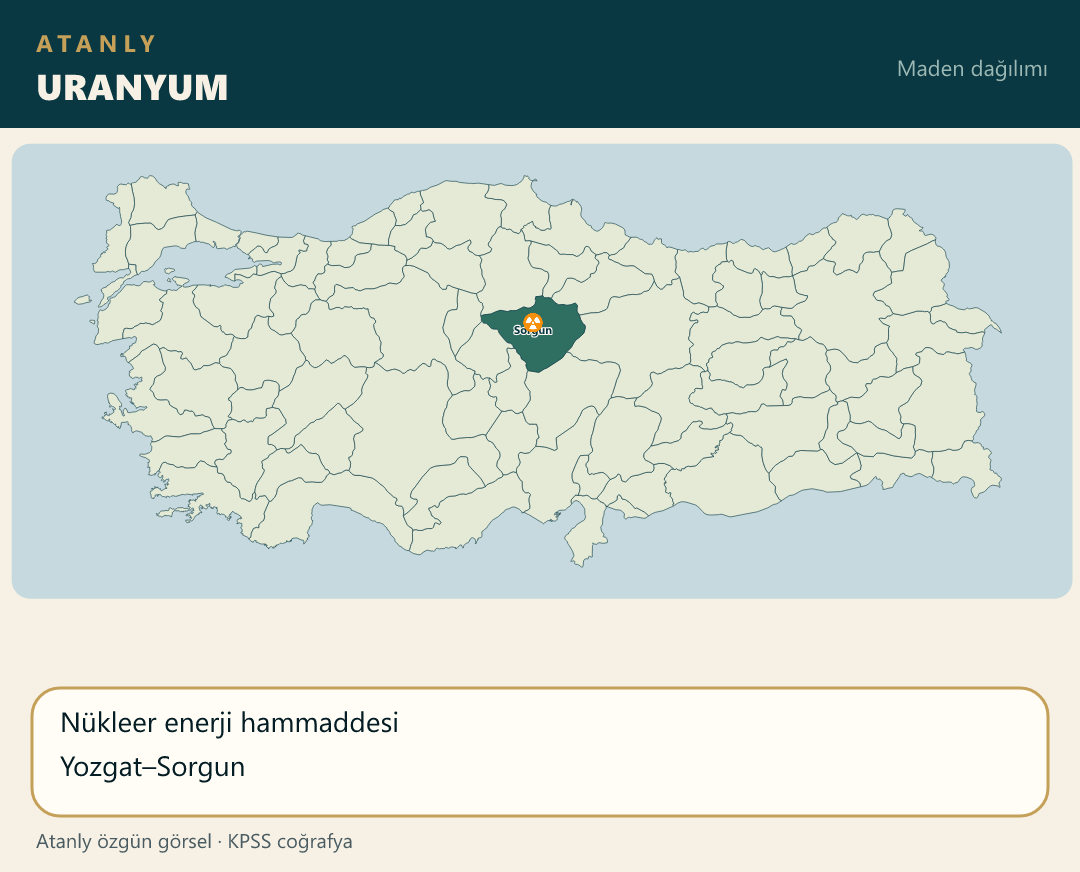
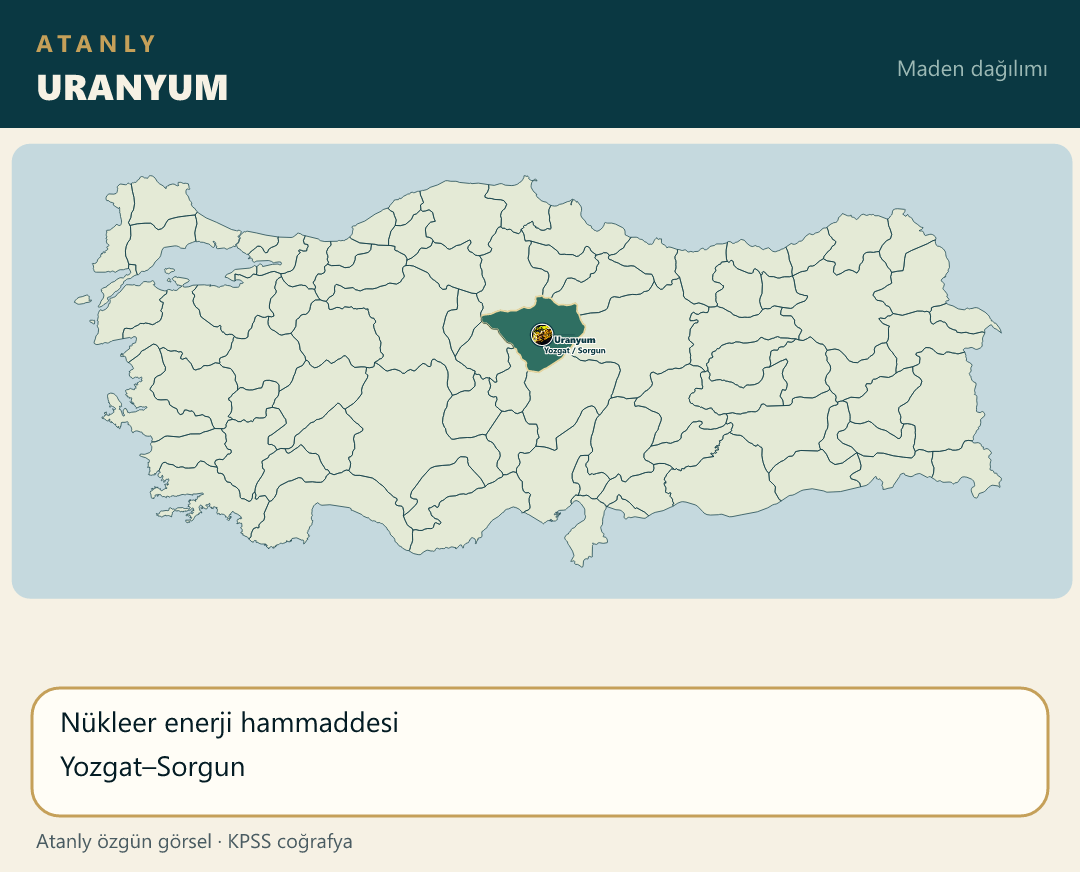
Place the uranium photo on the Yozgat land-center pin.

Changed region(s): [[0.4583, 0.3406, 0.55, 0.4335], [0.825, 0.4025, 0.8556, 0.4335], [0.2444, 0.4954, 0.275, 0.5264]]

diff --git a/scripts/build-atanly-maps.js b/scripts/build-atanly-maps.js
@@ -1062,8 +1062,10 @@ function main() {
                 { il: "Artvin", ilce: "Cerattepe", ldx: 32, ldy: 8 }
             ],
             facts: ["İlk yatak: Bergama–Ovacık", "Kaz Dağları, Mostra Dağı, Cerattepe"] },
-        { file: "maden_uranyum.png", title: "URANYUM", iller: ["Yozgat"],
-            yazilar: ["Sorgun"],
+        { file: "maden_uranyum.png", title: "URANYUM", urun: "Uranyum",
+            noktalar: [
+                { il: "Yozgat", ilce: "Sorgun", ldx: 32, ldy: 8 }
+            ],
             facts: ["Nükleer enerji hammaddesi", "Yozgat–Sorgun"] },
         { file: "maden_toryum.png", title: "TORYUM", urun: "Toryum",
             noktalar: [

diff --git a/notlar/cografya-21-not.js b/notlar/cografya-21-not.js
@@ -2,7 +2,7 @@
 (function () {
     function harita(src, alt) {
         return '<div class="mt-4 overflow-hidden rounded-xl border border-blue-200 dark:border-blue-700/50 bg-white dark:bg-slate-800 p-2">' +
-            '<img src="./src/img/' + src + '?v=36" alt="' + alt + ' Haritası" class="w-full h-auto rounded-lg object-contain" loading="lazy">' +
+            '<img src="./src/img/' + src + '?v=37" alt="' + alt + ' Haritası" class="w-full h-auto rounded-lg object-contain" loading="lazy">' +
             "</div>";
     }
 

diff --git a/index.html b/index.html
@@ -119,7 +119,7 @@
     <script src="notlar/cografya-18-not.js?v=17"></script>
     <script src="notlar/cografya-19-not.js?v=25"></script>
     <script src="notlar/cografya-20-not.js?v=1"></script>
-    <script src="notlar/cografya-21-not.js?v=29"></script>
+    <script src="notlar/cografya-21-not.js?v=30"></script>
     <script src="notlar/cografya-22-not.js?v=1"></script>
     <script src="notlar/cografya-23-not.js?v=1"></script>
     <script src="notlar/cografya-24-not.js?v=1"></script>
